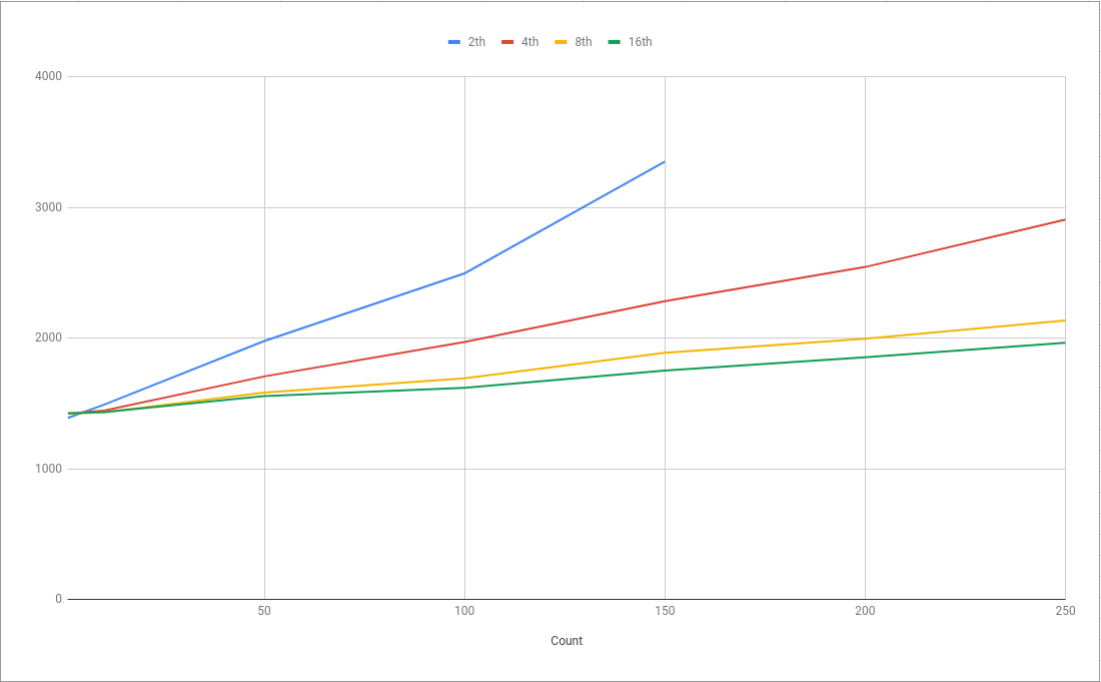
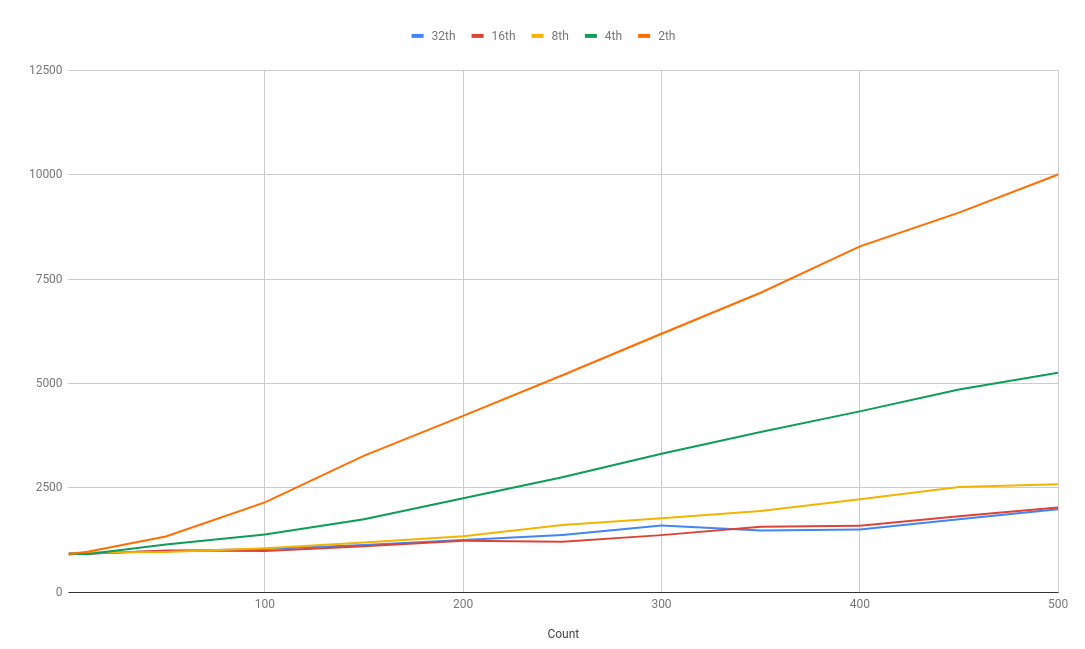
Update the "Using N-API for high performance voice command detection in Discord" with full benchmark data.

diff --git a/content/native-nodejs-hotword-detector/index.md b/content/native-nodejs-hotword-detector/index.md
@@ -155,34 +155,45 @@ Based on the timers and buffer states of the `VoiceProcessor`, Opus decoding, ho
 
 The benchmark was executed as follows:
 
+- Average command text callback delay is measured
 - Prerecorded data is submitted
 - It's submitted instantly and assigned different IDs each time to simulate multiple concurrent users
-- Silence TTL is 1000ms, buffer TTL is 200ms, thus making the lowest possible callback time ~1400ms.
+- Silence TTL is 500ms, buffer TTL is 200ms, thus making the lowest possible callback time ~900ms
 - GCloud network requests are skipped due to inconsistency they introduce
-- Average callback delay is measured
-- User count configurations are 1/10/50/100/150/200/250
+- Concurrent user count configurations are 1/10/50/100/150/200/250/300/350/400/450/500
 - Worker thread configurations are 2th/4th/8th/16th
-- The benchmark was run on a Ryzen 1800x (stock, 3200Mhz CL14 RAM)
+- The benchmark was run on a Ryzen 1800x (8c/16th, stock, 3200Mhz CL14 RAM)
 
 Results:
 
-| Time/Count | 2th  | 4th  | 8th  | 16th |
-| ---------- | ---- | ---- | ---- | ---- |
-| 1          | 1390 | 1423 | 1425 | 1425 |
-| 10         | 1490 | 1446 | 1432 | 1434 |
-| 50         | 1978 | 1707 | 1584 | 1556 |
-| 100        | 2495 | 1970 | 1693 | 1620 |
-| 150        | 3351 | 2282 | 1888 | 1751 |
-| 200        | N/A  | 2544 | 1995 | 1854 |
-| 250        | N/A  | 2907 | 2134 | 1964 |
+| Time/Count | 32th        | 16th        | 8th         | 4th         | 2th         |
+| ---------- | ----------- | ----------- | ----------- | ----------- | ----------- |
+| 1          | 915         | 925.3333333 | 889.6666667 | 924         | 915.6666667 |
+| 10         | 927.9       | 922         | 950.5333333 | 904.5666667 | 958.5666667 |
+| 50         | 983.96      | 994         | 961.0266667 | 1140.52     | 1334.426667 |
+| 100        | 1035.42     | 984.8533333 | 1052.04     | 1381.716667 | 2151.346667 |
+| 150        | 1129.208889 | 1097.468889 | 1185.746667 | 1744.268889 | 3270.86     |
+| 200        | 1246.273333 | 1231.196667 | 1340.586667 | 2249.508333 | 4223.388333 |
+| 250        | 1370.210667 | 1205.458667 | 1608.093333 | 2750.345333 | 5197.790667 |
+| 300        | 1596.752222 | 1365.345556 | 1772.262222 | 3313.592222 | 6191.073333 |
+| 350        | 1475.487619 | 1566.992381 | 1944.973333 | 3838.128571 | 7174.192381 |
+| 400        | 1502.828333 | 1592.363333 | 2224.576667 | 4330.573333 | 8285.690833 |
+| 450        | 1745.642963 | 1816.846667 | 2516.979259 | 4854.128148 | 9094.977037 |
+| 500        | 1987.492667 | 2028.574667 | 2585.128    | 5258.944667 | 10008.06133 |
 
-Visualised:
+Visualized (callback response time is pictured in relation to concurrent users, lower is better):
 
 ![performance-graph](./threads.png)
 
-We can clearly see that 2 worker threads are simply not enough to process everything in time. Considering that most modern CPU's support 6+ logical cores, this shouldn't be an issue.
+As expected, 32 worker threads on a 16 logical core system perform the same as 16 workers.
 
-8 worker threads seem to be the sweet spot.
+There is a linear scaling with the worker count from 2 to 4, and from 4 to 8 workers.
+
+Jumping from 8 workers to 16 provides ~23% performance improvement, which is in line with the general expectations from AMD's SMT implementation.
+
+Overall, the nature of the task allowed proper parallelization to be implemented. This is close to a best case scenario when it comes to multithreading.
+
+It's also worth noting that Discord enforces sharding after your bot connects to 2500 servers. From my observations, it's highly unlikely that more than 100 people will be concurrently talking on those 2500 servers. As you can see from the <100 concurrent user tests, we have enough performance to run each shard's instance on a dual core CPU without any issues (ignoring NodeJS's own processing needs).
 
 ## Conclusion
 
